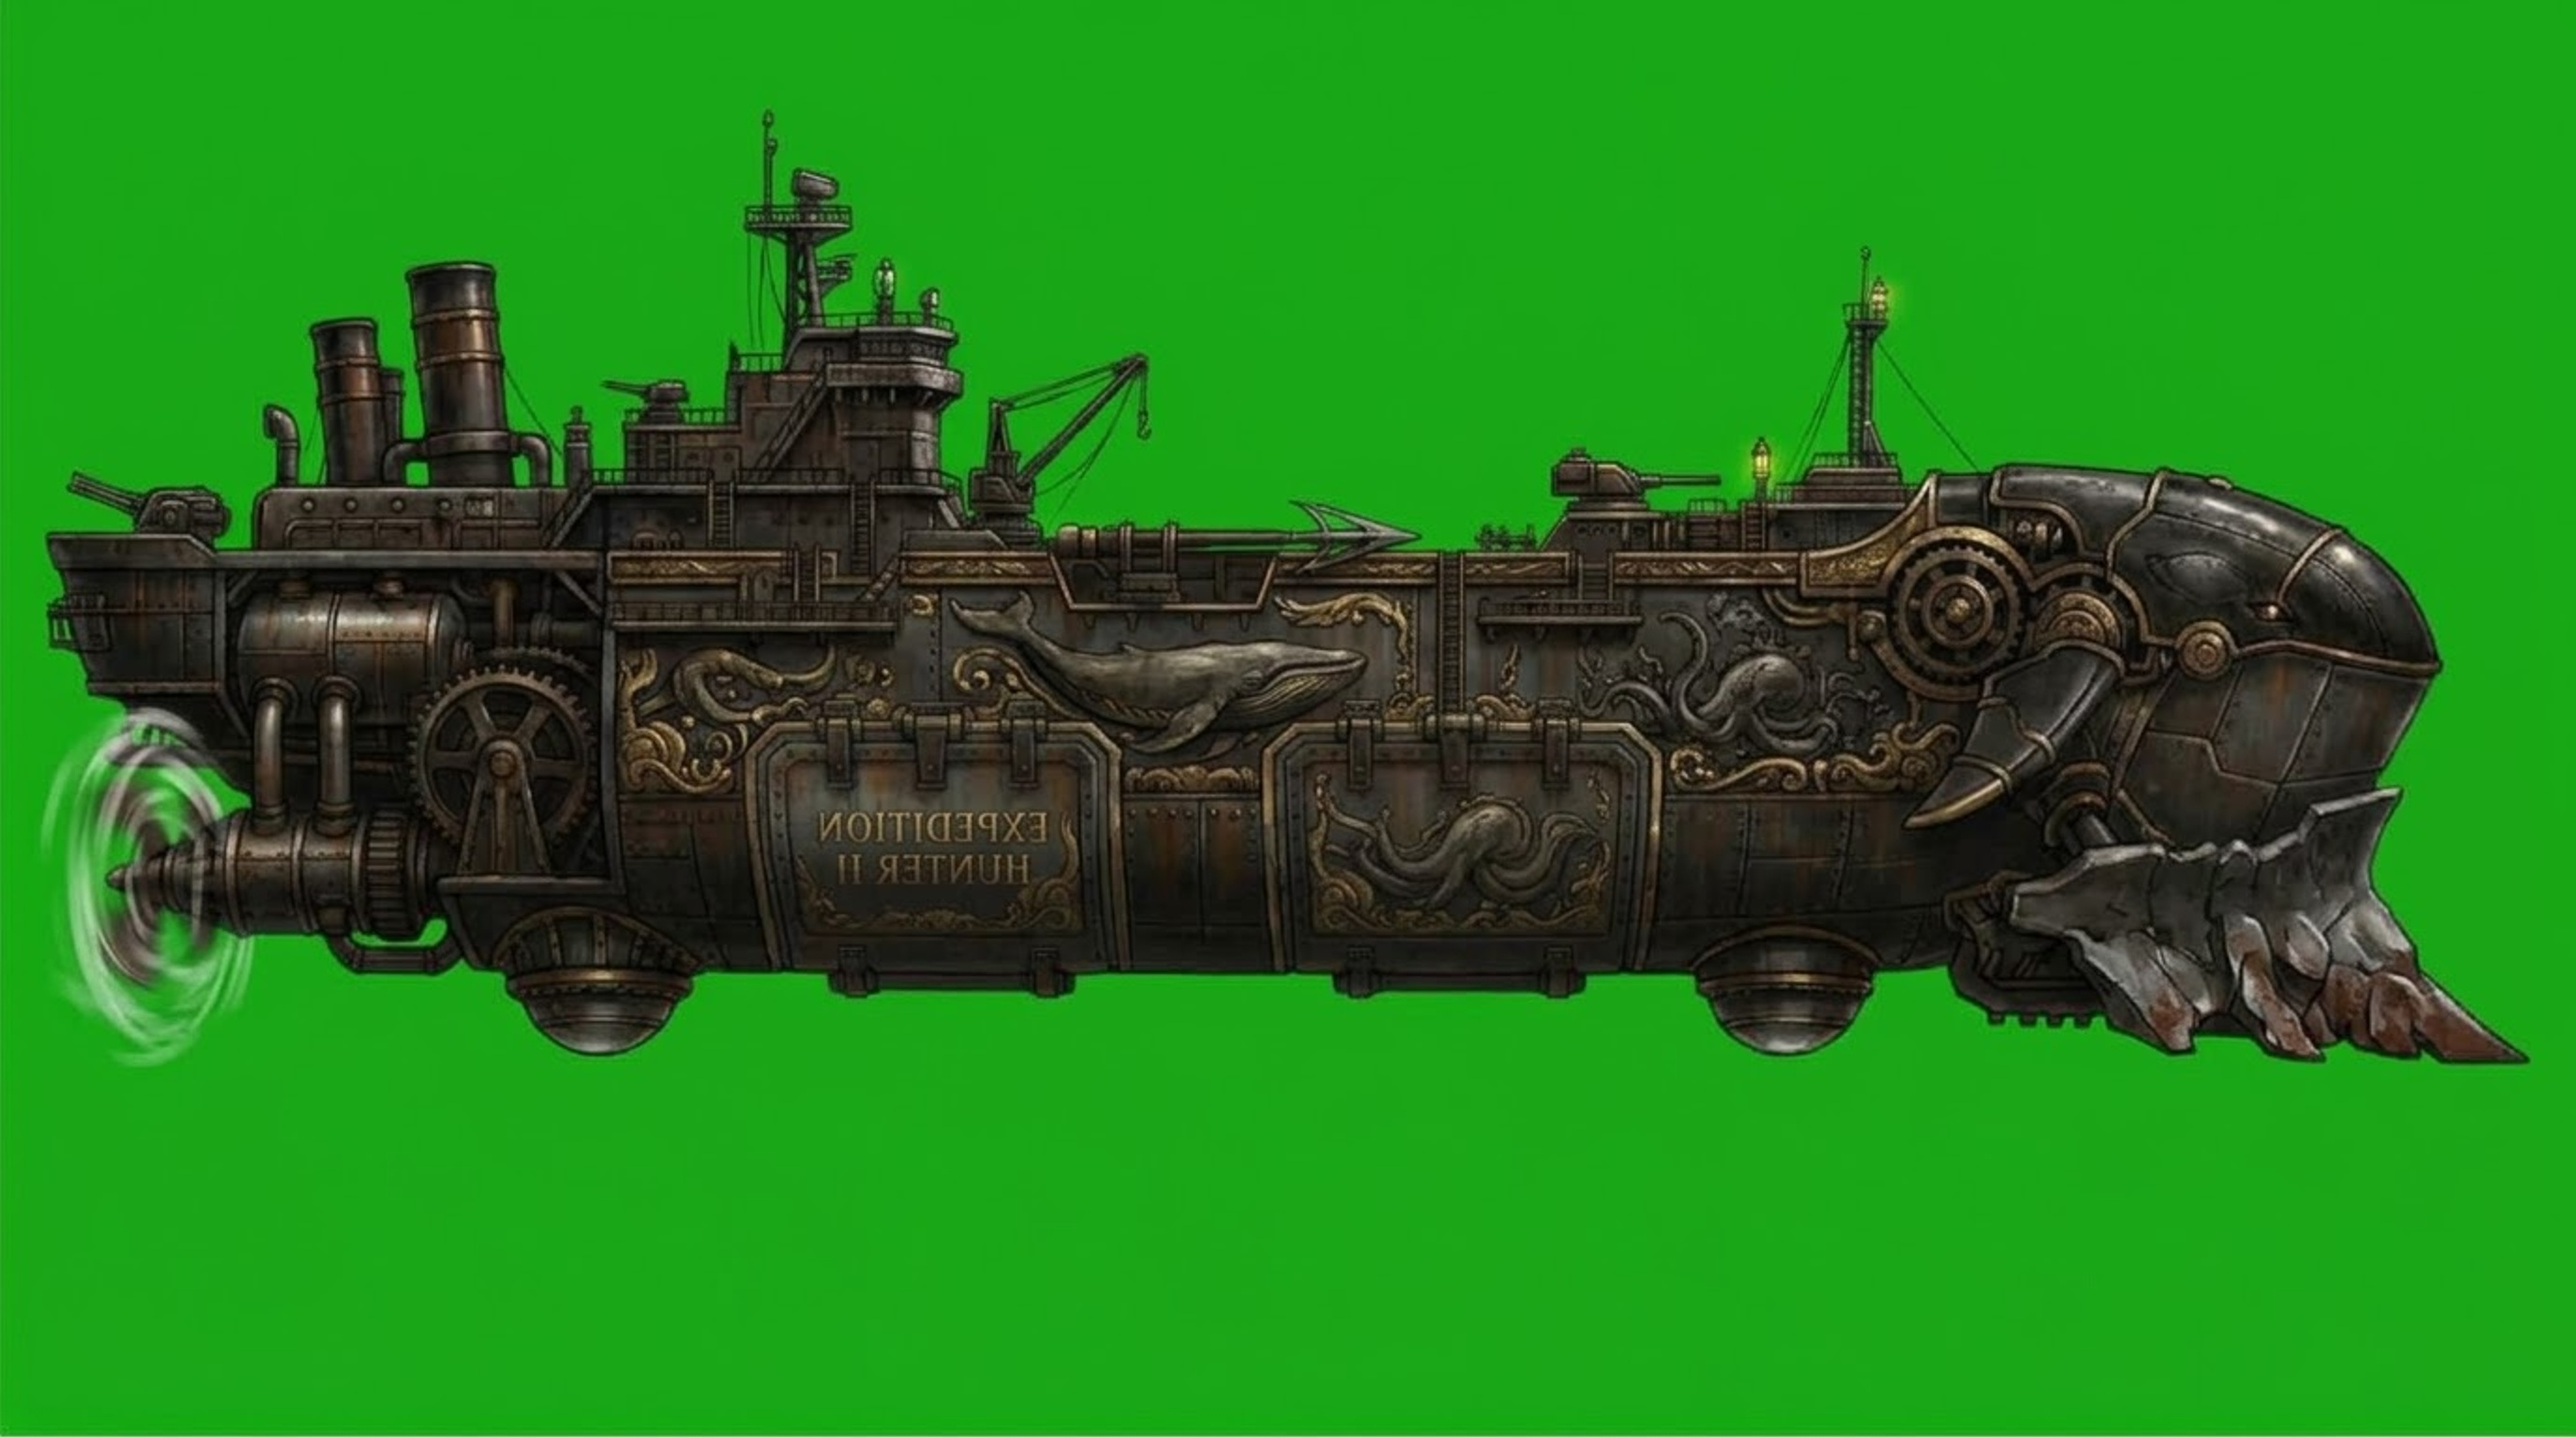
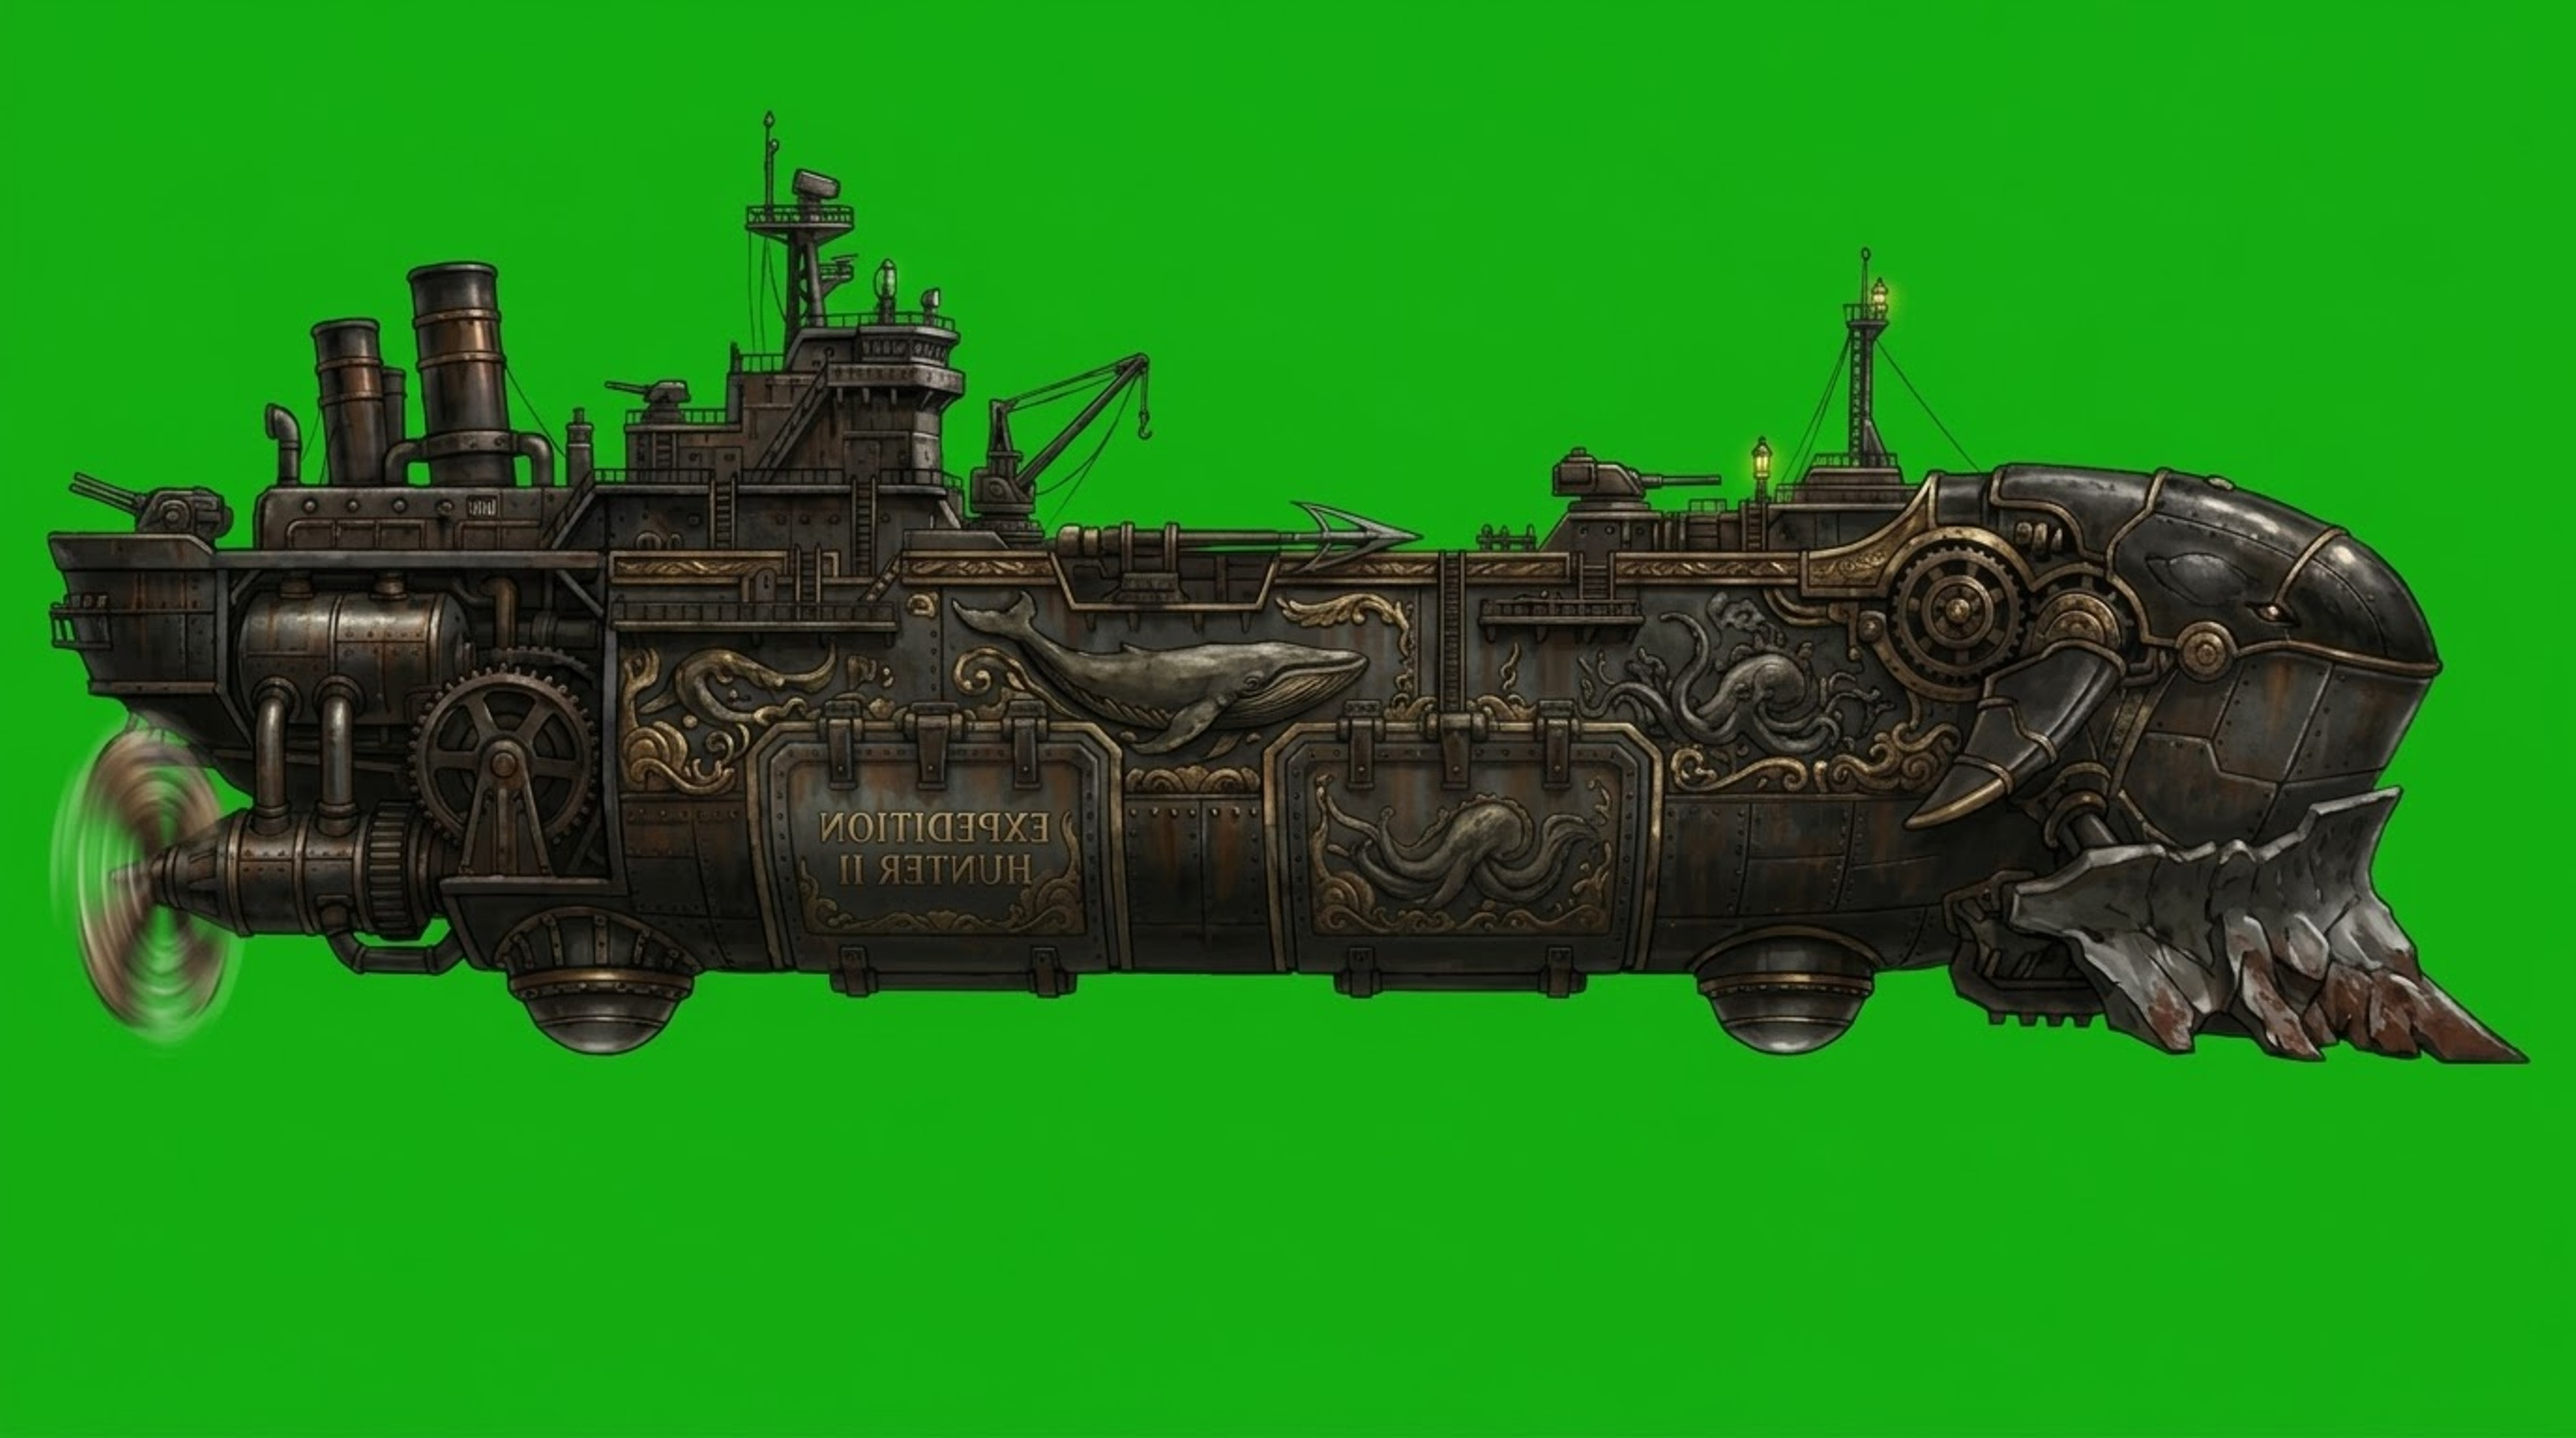
fix: elica dell'EH2 più visibile; lotto Gemini 4 per il cockpit (v0.53.1)

diff --git a/src/data/sprites.generated.ts b/src/data/sprites.generated.ts
@@ -1431,7 +1431,7 @@ export const ASSET_HASHES: Readonly<Record<string, string>> = {
   'world/nave_eh2_aperta.webp': '036c1573',
   'world/nave_eh2_aperta_1.webp': '9c92a87b',
   'world/nave_eh2_aperta_2.webp': 'a9554714',
-  'world/nave_eh2_moto.webp': 'fc15a289',
+  'world/nave_eh2_moto.webp': '370b9cb5',
   'world/nave_imperium.webp': '65f42a27',
   'world/nave_imperium_aperta.webp': '3042f146',
   'world/nave_imperium_aperta_1.webp': '971f804b',

diff --git a/docs/GEMINI-LOTTO-4.md b/docs/GEMINI-LOTTO-4.md
@@ -1,0 +1,96 @@
+# Immagini generate in Gemini, lotto 4: il cockpit a vapore (8 ottobre 2026)
+
+Il cockpit dell'Expedition Hunter 1 e 2 deve sembrare **dipinto come i tuoi concept**, non disegnato col codice. Le scritte e i numeri però devono restare veri: cambiano mentre giochi (carburante, nodi, denti). Per questo non uso i concept interi, ma **pezzi separati senza scritte**, che il gioco monta come un puzzle e su cui scrive lui.
+
+## Come si chiede
+- **Una sola chat** per tutto il lotto, così lo stile resta uguale.
+- Nel **primo messaggio allega i tuoi concept del cockpit** (quelli con la Plancia e il Diario) e scrivi:
+  ```
+  These are concept screens of a steampunk ship cockpit for my game. I need the separate ASSETS to rebuild it, one per image, in exactly this style: realistic painted rendering, dark iron plates with orange rust patches, rivets, brass and copper details, soft warm light from the top left. Every asset: perfectly frontal flat view (no perspective, no tilt), NO text, NO letters, NO numbers, NO logos, NO icons. Ready?
+  ```
+- Poi un messaggio per ogni pezzo qui sotto. Se un'immagine ha delle scritte, chiedi: `Same image without any text or numbers`.
+- **Salvali in `art-inbox/`** con il nome indicato, in `.jpg`. Se è più comodo, salvali come vengono in una cartella sul desktop: li riconosco e li rinomino io.
+
+## I pezzi
+
+### 1. Muro di fondo → `cockpit_vapore_sfondo.jpg`
+```
+The background WALL of the cockpit only: rusted riveted iron wall panels, copper pipes running along the left edge and across the top with a couple of valve wheels and pressure joints, a few vent grilles at the far right edge. The large central area is plain darker riveted metal with nothing on it (panels and buttons will be placed on top). No dials, no screens, no buttons, no text. Wide 16:9 image.
+```
+
+### 2. Pannello grande → `cockpit_vapore_pannello.jpg`
+```
+One large empty rectangular PANEL plate: thick dark iron frame with rivets all around and reinforced corners, the inside is a flat plain darker rusty metal surface with NO details, NO objects and NO scratches in the middle (it will be stretched to different sizes). Isolated on a flat pure green background (#00FF00), no shadow outside the plate. Wide 16:9 image.
+```
+
+### 3. Card del diario → `cockpit_vapore_card.jpg`
+```
+One small rectangular CARD plate: rusted iron with four metal corner brackets and a rivet in each corner, the middle plain and flat with no details. Isolated on a flat pure green background (#00FF00), no shadow. Wide 3:2 image.
+```
+
+### 4. Placche dei pulsanti (tre immagini)
+- `cockpit_vapore_targa.jpg` (normale):
+  ```
+  One horizontal BUTTON plate: rusted dark iron rectangle with rounded corners, a rivet in each corner, slightly raised, the middle plain and flat. Isolated on a flat pure green background (#00FF00). Wide 3:1 image.
+  ```
+- `cockpit_vapore_targa_ottone.jpg`, la stessa in **ottone lucido** (è il pulsante "Al timone" e la scheda accesa):
+  ```
+  The same button plate in polished warm BRASS, glowing slightly. Same shape and rivets. Flat pure green background (#00FF00). Wide 3:1 image.
+  ```
+- `cockpit_vapore_targa_rossa.jpg`, il razzo di soccorso:
+  ```
+  The same button plate as a raised glossy dark RED emergency button with a brass rim. Flat pure green background (#00FF00). Wide 3:1 image.
+  ```
+
+### 5. Schede a sinistra (due immagini)
+- `cockpit_vapore_scheda.jpg`:
+  ```
+  One SQUARE tab plate: rusted iron, rounded corners, a rivet in each corner, the middle plain. Flat pure green background (#00FF00). Square image.
+  ```
+- `cockpit_vapore_scheda_ottone.jpg`:
+  ```
+  The same square tab plate in polished glowing BRASS. Flat pure green background (#00FF00). Square image.
+  ```
+
+### 6. Strumento rotondo → `cockpit_vapore_quadrante.jpg`
+```
+One round GAUGE without needle: thick polished brass bezel with small screws, an aged cream/ivory dial face with tick marks around a 270-degree arc and a small red zone at the start of the arc, NO numbers, NO letters, NO needle, an empty centre. Isolated on a flat pure green background (#00FF00). Square image.
+```
+
+### 7. Lancetta → `cockpit_vapore_lancetta.jpg`
+```
+One gauge NEEDLE alone: a thin dark red pointer with a small brass hub at its base, pointing straight UP, the hub exactly at the bottom centre of the picture. Flat pure green background (#00FF00). Tall 1:3 image.
+```
+
+### 8. Quadrante del meteo → `cockpit_vapore_meteo.jpg`
+```
+One round instrument with a thick COPPER ring and an aged cream face, completely empty in the middle (the weather icon will be placed there), two small engraved arrows on the ring. No text. Flat pure green background (#00FF00). Square image.
+```
+
+### 9. Cornice dello schermo → `cockpit_vapore_schermo.jpg`
+```
+One thick riveted iron FRAME around a screen: the screen inside is pure flat black (#000000) with no reflections and nothing drawn on it, the frame is heavy dark metal with rivets and a small brass plate at the bottom centre (blank). Flat pure green background (#00FF00) outside the frame. Wide 16:9 image.
+```
+
+### 10. Leva → `cockpit_vapore_leva.jpg`
+```
+One brass and iron LEVER in a vertical slot plate, the handle in the middle position. Flat pure green background (#00FF00). Tall 1:2 image.
+```
+
+### 11. Valvola → `cockpit_vapore_valvola.jpg`
+```
+One copper VALVE wheel with four spokes, seen from the front. Flat pure green background (#00FF00). Square image.
+```
+
+### 12. Drago inciso (facoltativo) → `cockpit_vapore_drago.jpg`
+```
+One engraved DRAGON relief ornament in dark iron and brass, like the ones on the concept panels, facing LEFT, curling tail. Flat pure green background (#00FF00). Wide 3:2 image.
+```
+
+## Cosa faccio io quando arrivano
+- Le passo con `npm run art`:
+  - tolgo il verde;
+  - i pannelli e le placche si allungano senza deformare gli angoli, così vanno bene per ogni misura;
+  - le lancette ruotano davvero sul numero.
+- Il cockpit dell'EH1 e dell'EH2 viene montato con questi pezzi, le scritte restano vere e lo stile sarà quello dei concept.
+- **Per le altre navi** basterà un lotto uguale con un'altra descrizione: ad esempio "marmo nero e oro romano" per l'Imperium, "bronzo antico e rune" per il Poseidon.

diff --git a/docs/PROGRESS.md b/docs/PROGRESS.md
@@ -6,7 +6,9 @@
 
 **Da provare sull'iPhone:** con l'EH1 o l'EH2 apri il Cockpit e passa tutte le schede; con l'EH2 dai gas e guarda le eliche.
 
-**Prossimo:** decidere lo stile del cockpit delle altre navi; poi la parte 4c (U-Boat).
+**Da rifare:** al proprietario lo stile fatto col codice non piace. Le immagini dei pezzi (lotto 4, `docs/GEMINI-LOTTO-4.md`, nomi `cockpit_vapore_*`) le genera lui con Gemini; quando arrivano: `npm run art` (aggiungere i nomi, pannelli allungabili senza deformare gli angoli), montarle in `cockpitSteam.css` / `cockpit.ts` con lancette che ruotano.
+
+**Prossimo:** il cockpit con le immagini del lotto 4; poi la parte 4c (U-Boat).
 
 ## ⚠ Da togliere prima della fine: strumenti di prova sulla Home (v0.52.1)
 

diff --git a/CHANGELOG.md b/CHANGELOG.md
@@ -2,6 +2,10 @@
 
 Cosa cambia per chi gioca, versione per versione. Ogni versione ha un'etichetta in git (`v0.1.0`, `v0.2.0`...) a cui si può sempre tornare.
 
+## v0.53.1 — Elica dell'EH2 più visibile (8 ottobre 2026)
+
+- Expedition Hunter 2: nuova immagine con l'elica che gira, più visibile.
+
 ## v0.53.0 — Cockpit a vapore, eliche dell'EH2 (8 ottobre 2026)
 
 - **Nuovo cockpit "a vapore"** per Expedition Hunter 1 e 2, ricreato dai concept del proprietario:
